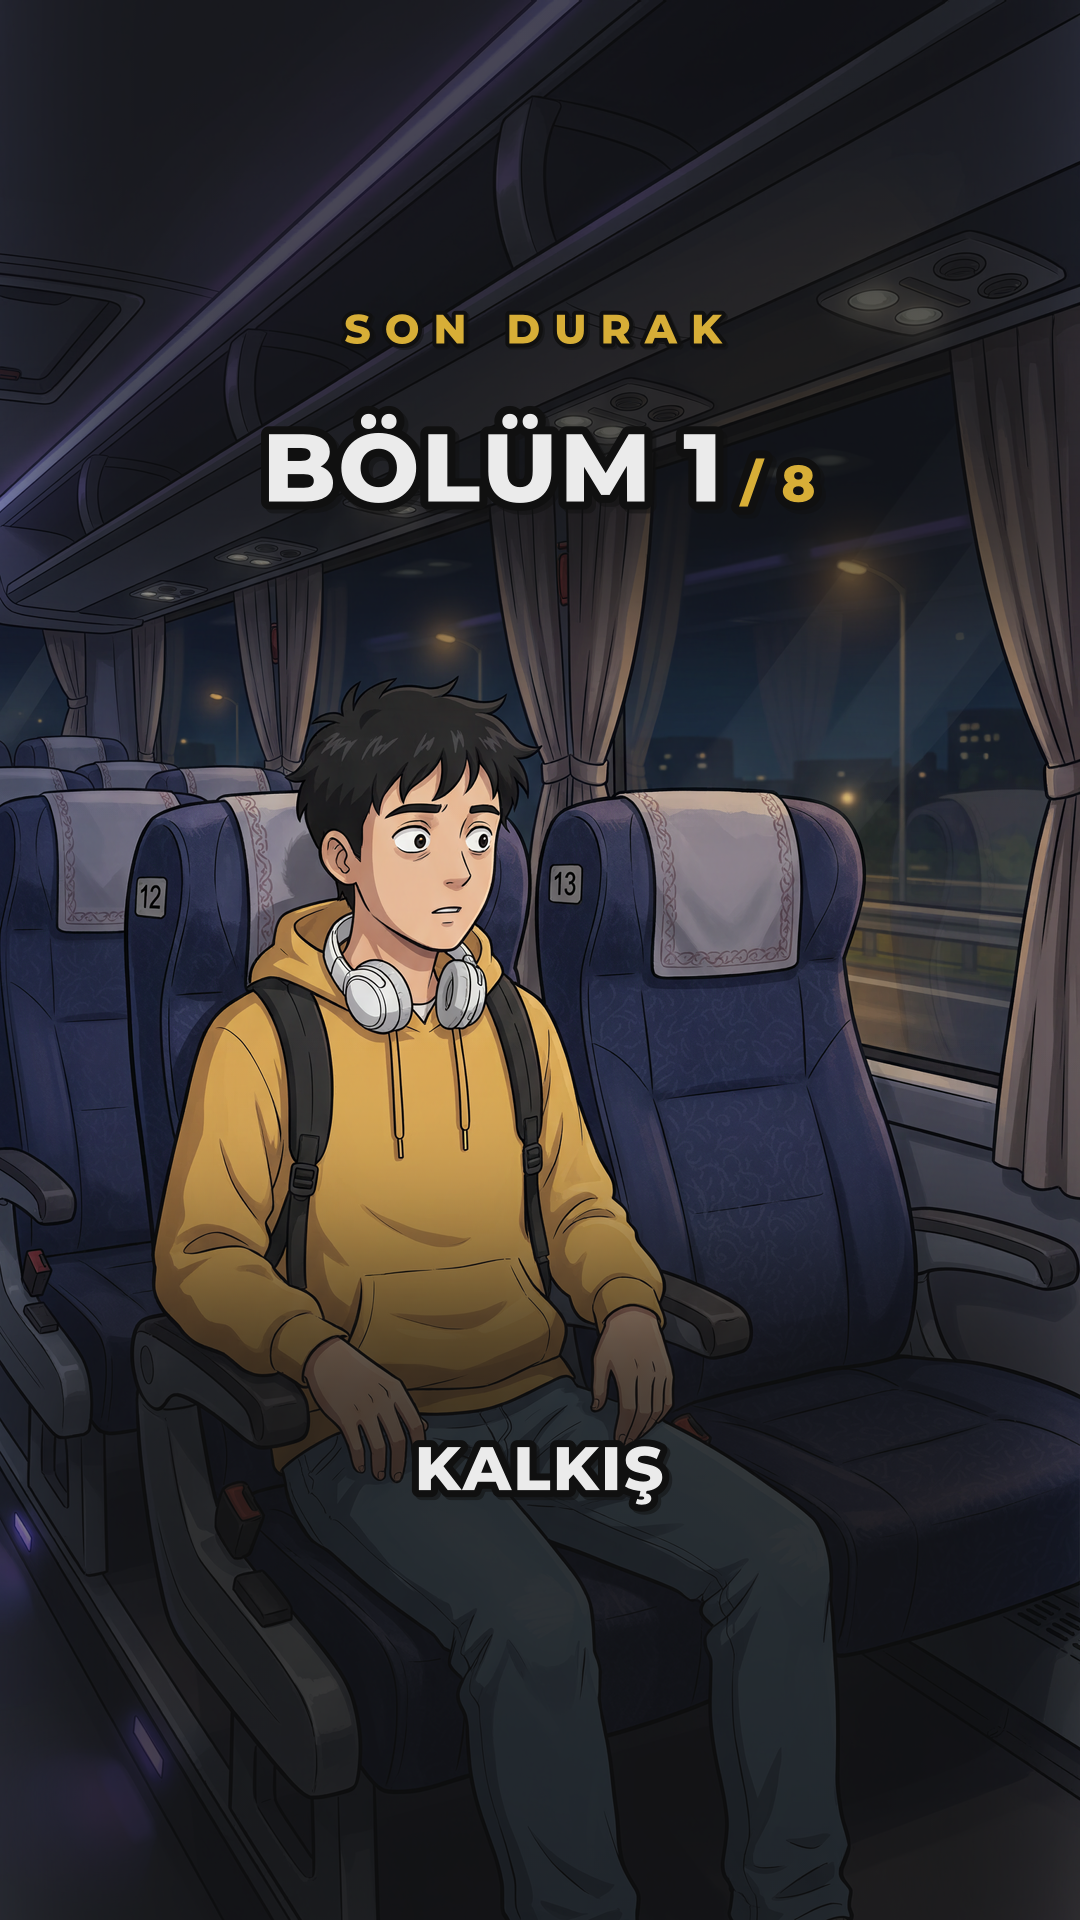
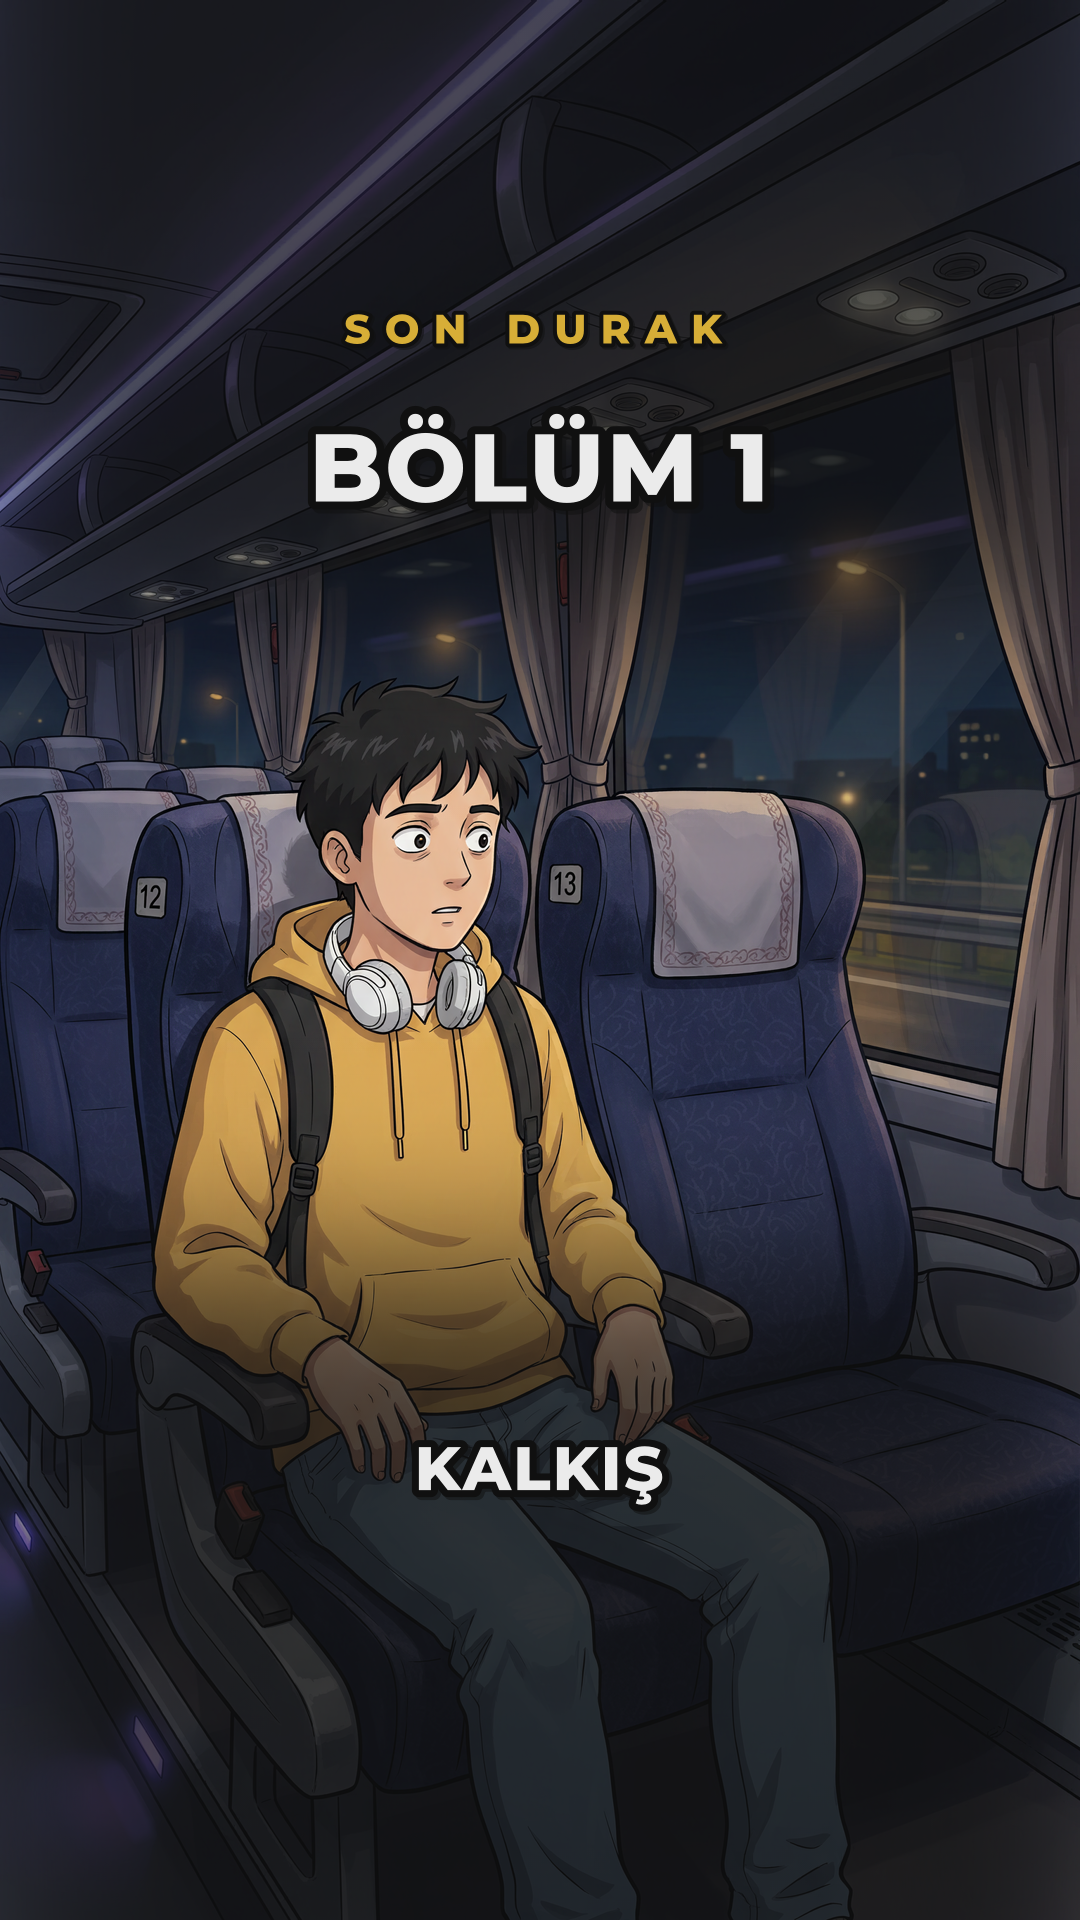
Kapak: toplam bölüm sayısı kaldırıldı (yalnızca "BÖLÜM N")
Toplam sayı (1/8) hikâyenin ne zaman biteceğini ele verip sürprizi kaçırabilir.

Changed region(s): [[0.2444, 0.1875, 0.7639, 0.2812]]

diff --git a/kod/kapak.py b/kod/kapak.py
@@ -1,6 +1,6 @@
 """Kapak adımı: bölümün Reels kapak görselini (1080×1920) üretir.
 
-Kapakta seri adı, "BÖLÜM N / 8", bölüm başlığı ve (Bölüm 2'den itibaren) önceki
+Kapakta seri adı, "BÖLÜM N", bölüm başlığı ve (Bölüm 2'den itibaren) önceki
 bölümde kazanan seçim yazar; izleyici profil ızgarasında hangi bölüm olduğunu ve
 hikâyenin hangi daldan ilerlediğini kapaktan anlar.
 Yazılar Instagram profil ızgarasının gösterdiği orta 3:4 alanın (y 240–1680)
@@ -25,7 +25,7 @@ import tempfile
 from pathlib import Path
 
 sys.path.insert(0, str(Path(__file__).resolve().parent))
-from senaryo import SON_BOLUM, SenaryoHatasi, secenek_metni, senaryo_yukle  # noqa: E402
+from senaryo import SenaryoHatasi, secenek_metni, senaryo_yukle  # noqa: E402
 from montaj import FONT_ADI, FONT_DOSYASI, FONT_KLASORU, GEN, YUK, VURGU, BEYAZ  # noqa: E402
 
 KOK = Path(__file__).resolve().parent.parent
@@ -79,8 +79,7 @@ def ass_metni(seri, bolum, baslik, secim=None):
         olay("Golge", bant.format(a="50", b=90, y1=-200, y2=620, g=GEN), 0),
         olay("Golge", bant.format(a="40", b=110, y1=1260, y2=YUK + 200, g=GEN), 0),
         olay("Seri", f"{{\\pos(540,330)\\c{VURGU}}}{_ass_metin(tr_buyuk(seri))}"),
-        olay("Bolum", f"{{\\pos(540,470)}}BÖLÜM {bolum}"
-                      f"{{\\fs80\\c{VURGU}}} / {SON_BOLUM}"),
+        olay("Bolum", f"{{\\pos(540,470)}}BÖLÜM {bolum}"),
         olay("Baslik", f"{{\\pos(540,1470)}}{_ass_metin(tr_buyuk(baslik))}"),
     ]
     if secim:

diff --git a/kod/test_kapak.py b/kod/test_kapak.py
@@ -40,7 +40,8 @@ except KapakHatasi:
     kontrol("görsel hatalı", True)
 
 ass1 = ass_metni("Son Durak", 1, "Kalkış")
-kontrol("bölüm no", "BÖLÜM 1" in ass1 and "/ 8" in ass1)
+kontrol("bölüm no", "BÖLÜM 1" in ass1)
+kontrol("toplam bölüm sayısı yok (sürpriz kaçmasın)", "/ 8" not in ass1)
 kontrol("başlık büyük", "KALKIŞ" in ass1)
 kontrol("bölüm 1'de seçim satırı yok", "Seçilen yol" not in ass1)
 ass2 = ass_metni("Son Durak", 2, "Kimse hatırlamıyor", ("A", "Zarfı aç"))

diff --git a/CLAUDE.md b/CLAUDE.md
@@ -31,7 +31,7 @@ Platform: **macOS (Apple Silicon)** ana cihaz + **Windows** ikinci cihaz. Proje 
 3. `gorsel.py` her sahne için istek (referans görseller + prompt) hazırlar; kullanıcı Gemini uygulamasında sahne başına 3 görsel üretir, `--yerlestir` ile `sahneN_a/b/c.png` olarak 1080×1920'ye kesilip yerleşir. **Kontrol noktası:** Kullanıcı her sahne için birini seçer veya yeniden üretir. Seçilmeyenler ilham arşivi olarak kalır.
 4. ElevenLabs anlatımı cümle cümle seslendirir ve kelime zamanlamalarını kaydeder. **Kontrol noktası:** Kullanıcı dinler, gerekirse tek bir cümleyi yeniden ürettirir.
 5. ffmpeg videoyu birleştirir: görseller, ses, altyazı, müzik ve sonda seçenek kartı.
-6. **Kapak (her bölümde, kalıcı kural):** `python kod/kapak.py bolumler/bolum_NN/senaryo.json` → `kapak.png` (Reels kapağı). Kapakta seri adı, "BÖLÜM N / 8", bölüm başlığı ve Bölüm 2'den itibaren önceki bölümde kazanan seçim ("Seçilen yol: A · …", `durum.json`'dan) yazar; yazılar profil ızgarasının orta 3:4 alanında kalır. Arka plan varsayılan sahne 1/a, `--gorsel 4=b` ile değişir. Testler: `python kod/test_kapak.py`.
+6. **Kapak (her bölümde, kalıcı kural):** `python kod/kapak.py bolumler/bolum_NN/senaryo.json` → `kapak.png` (Reels kapağı). Kapakta seri adı, "BÖLÜM N" (toplam bölüm sayısı yazılmaz, sürpriz kaçmasın), bölüm başlığı ve Bölüm 2'den itibaren önceki bölümde kazanan seçim ("Seçilen yol: A · …", `durum.json`'dan) yazar; yazılar profil ızgarasının orta 3:4 alanında kalır. Arka plan varsayılan sahne 1/a, `--gorsel 4=b` ile değişir. Testler: `python kod/test_kapak.py`.
 7. Video kapakla birlikte yüklenir. Sonra kazanan seçim girilir ("B kazandı") ve `durum.json` güncellenir.
 
 Hedef süre: kullanıcı başına bölüm başına 20–40 dk.
